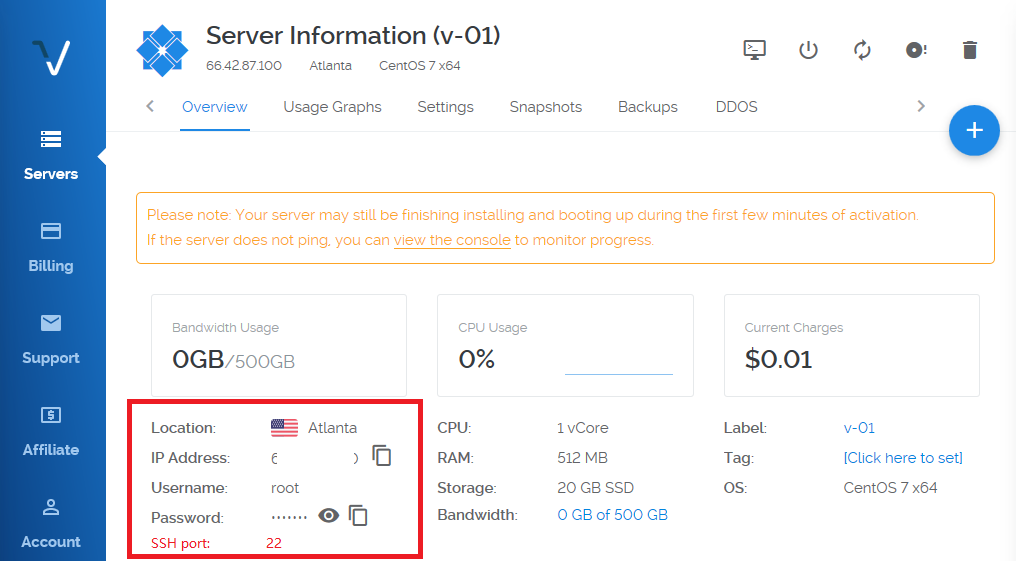
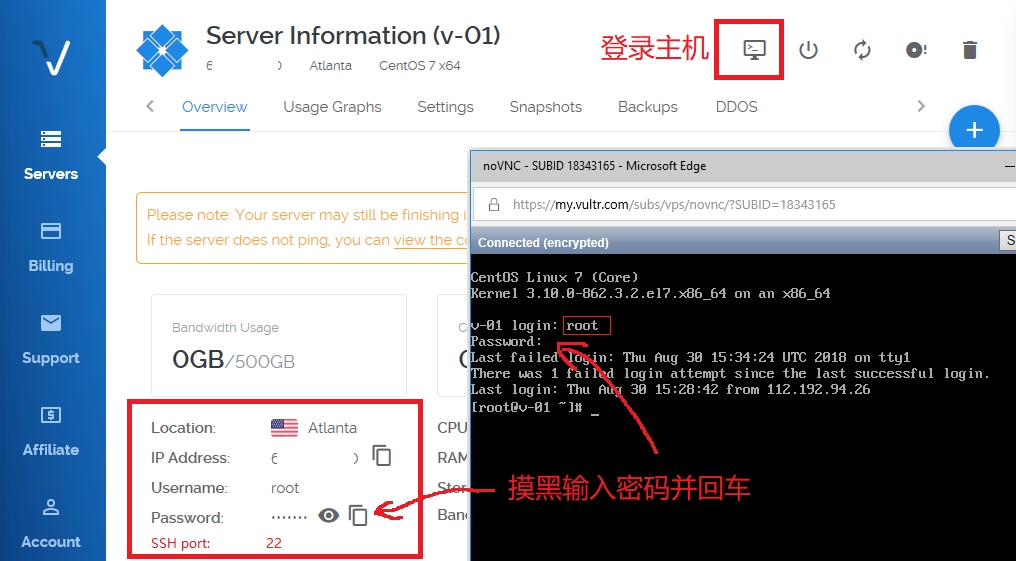
m

diff --git a/vultr.md b/vultr.md
@@ -43,12 +43,8 @@
 9. 在 `主机信息` 页面, 可以看到 `IP Address`(IP地址), 用户名 root, 登录密码 等关键信息. 
    这里把 `SSH` 端口号 `22` 漏掉了, 我用红字添了上去. 
 
+   由于很多 IP 已经被 GFW 屏蔽, 安装完成, 并从控制台确认系统已经在运行, 请在 [这个网站](http://tool.chinaz.com/port/) 上用主机 IP 和 22 端口试一下, 看是否畅通, 如果不通, 请再次新建 `虚拟主机`, 直到试通为止. 然后再把不用的虚拟主机删除. 
+
+   最后, 如图所示, 以 `root` 用户名 和 `密码` 登入主机. 
+
 <img src="vultr/host.png" />
-
-   由于很多 IP 已经被 GFW 屏蔽, 安装完成, 并从控制台确认系统已经在运行, 请在[这个网站](http://tool.chinaz.com/port/) 上试一下主机 IP 和 22 端口, 看是否畅通, 如果不通， 再新建虚拟主机，直到能试通为止， 后再把不用的虚拟主机删除. 
-
-10. 登录进入系统
-    以 root 用户名 和 密码 登入主机. 
-
-<img src="vultr/login.png" />
-
